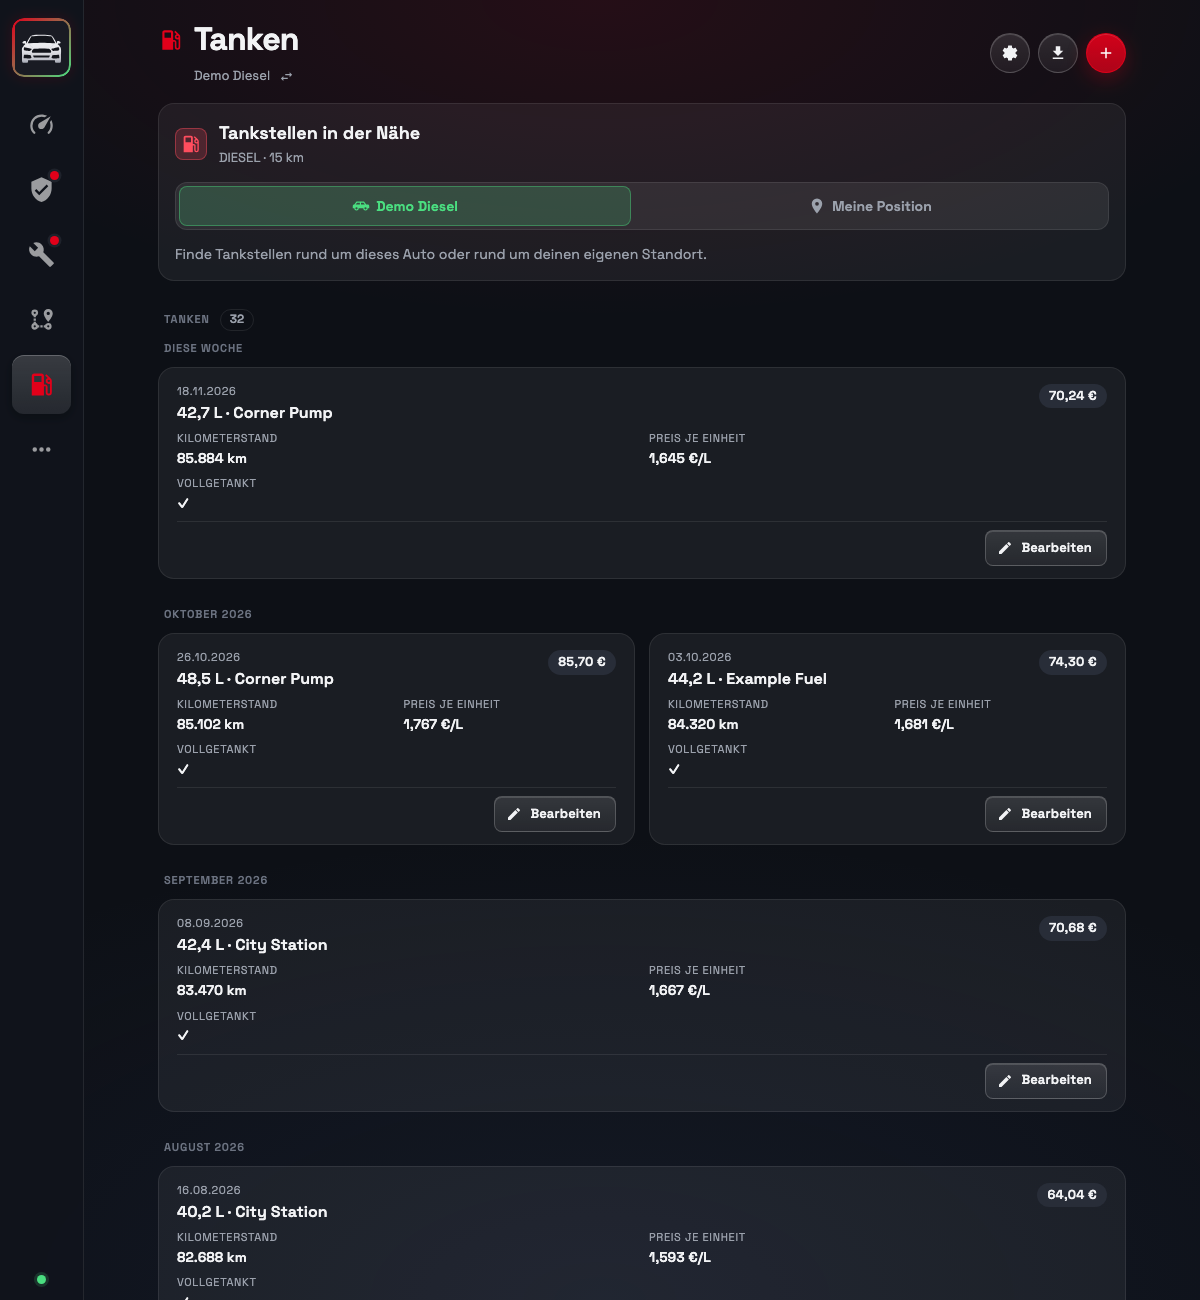
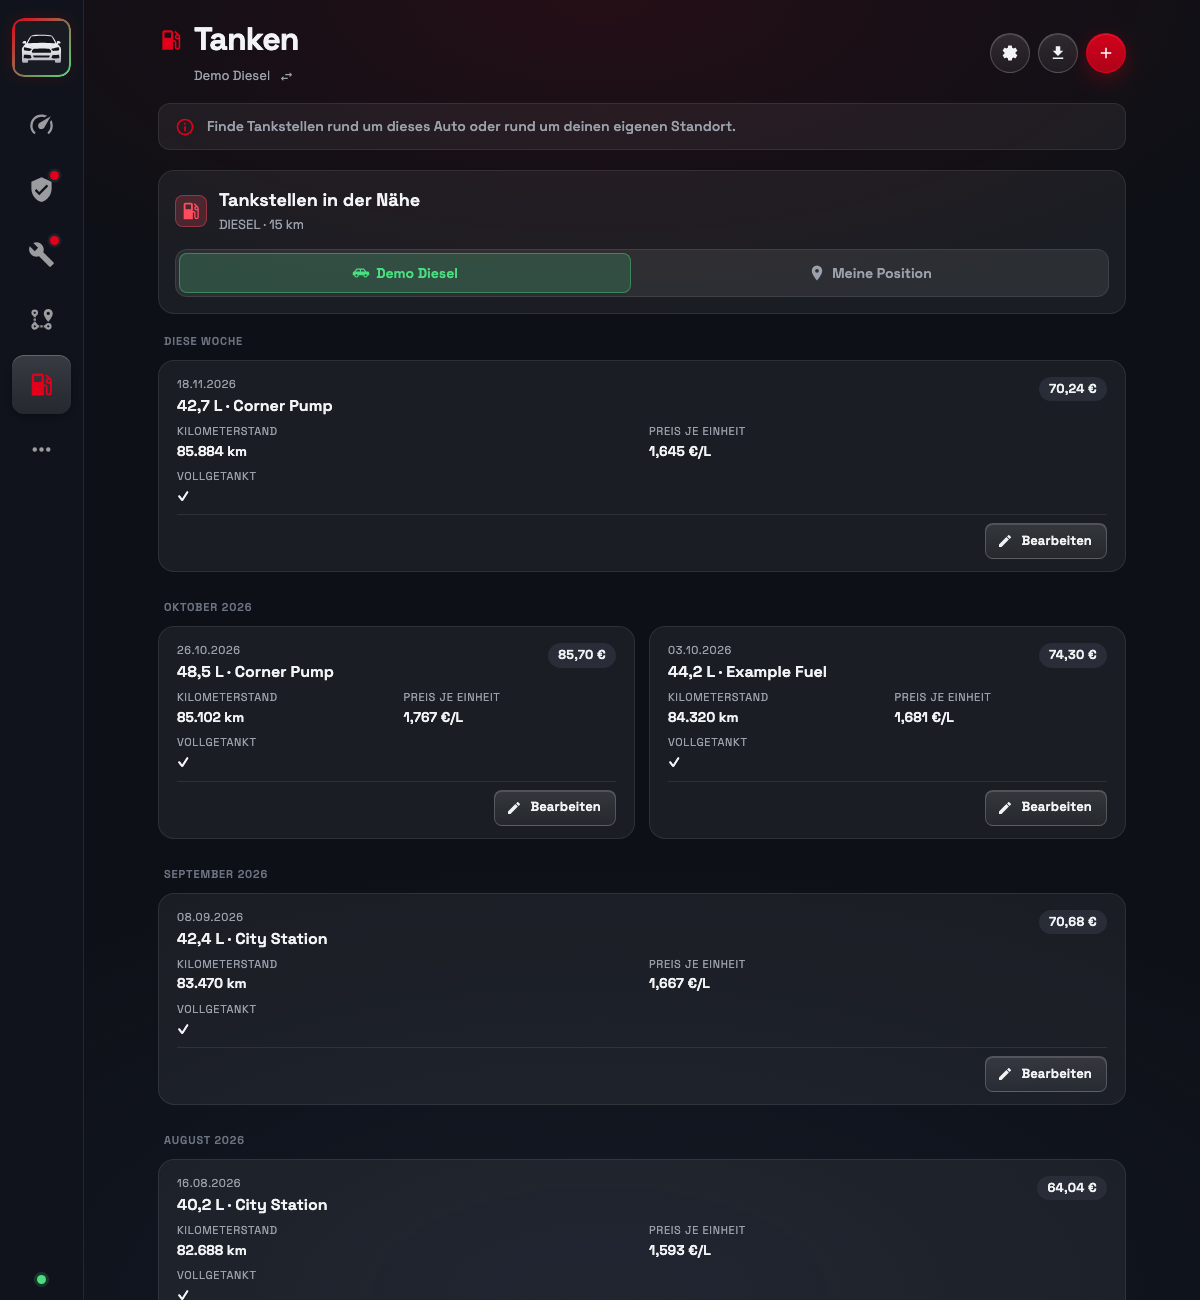
Station search: new row layout, price/distance switch, ten plus more, opening state; info tile for the intro

diff --git a/carassistant/app/carassistant/templates/_stations_card.html b/carassistant/app/carassistant/templates/_stations_card.html
@@ -5,34 +5,43 @@
     <span class="mi-ic c6">{{ icon('gas-station', 20) }}</span>
     <div class="stn-ht"><h2>{{ _('stn.title') }}</h2><small>{{ s.fuel|upper }} · 15 {{ units.dist_unit }}</small></div>
   </div>
+  {% set keep = ('&lat=' ~ request.query_params.get('lat', '') ~ '&lon=' ~ request.query_params.get('lon', '')) if s.where == 'me' else '' %}
   <form method="get" action="{{ vurl }}" id="stform" data-no-car="{{ _('stations.no_car_pos') }}" data-denied="{{ _('stations.geo_denied') }}">
     <input type="hidden" name="go" value="1">
+    <input type="hidden" name="sort" value="{{ s.sort }}">
     <input type="hidden" name="lat" id="st-lat" value="{{ request.query_params.get('lat', '') }}">
     <input type="hidden" name="lon" id="st-lon" value="{{ request.query_params.get('lon', '') }}">
     <nav class="seg-tabs" aria-label="{{ _('stn.where') }}">
-      <a href="{{ vurl }}?go=1#stations" id="st-car" class="{{ 'on' if s.where == 'car' }}{{ '' if s.car_pos else ' off' }}">{{ icon('car', 18) }}<span>{{ v.name }}</span></a>
+      <a href="{{ vurl }}?go=1&amp;sort={{ s.sort }}#stations" id="st-car" class="{{ 'on' if s.where == 'car' }}{{ '' if s.car_pos else ' off' }}">{{ icon('car', 18) }}<span>{{ v.name }}</span></a>
       <a href="#stations" id="st-me" class="{{ 'on' if s.where == 'me' }}">{{ icon('pin', 18) }}<span>{{ _('stn.me') }}</span></a>
     </nav>
   </form>
+  {% if s.searched %}<nav class="seg-tabs" aria-label="{{ _('stations.sort') }}">
+    <a href="{{ vurl }}?go=1&amp;sort=price{{ keep|e }}#stations" class="{{ 'on' if s.sort == 'price' }}">{{ icon('gas-station', 18) }}<span>{{ _('stations.sort_price') }}</span></a>
+    <a href="{{ vurl }}?go=1&amp;sort=distance{{ keep|e }}#stations" class="{{ 'on' if s.sort == 'distance' }}">{{ icon('map-marker-radius', 18) }}<span>{{ _('stations.sort_distance') }}</span></a>
+  </nav>{% endif %}
   {% if not s.car_pos %}<p class="hint">{{ _('stations.no_car_pos') }}</p>{% endif %}
   <div class="flash err" id="st-msg" hidden></div>
   {% if s.error %}<div class="flash err">{{ _(s.error) }}</div>{% endif %}
   {% if s.searched and not s.error %}
     {% if s.results %}
-    {% set prices = s.results|selectattr('price')|map(attribute='price')|list %}
-    <div class="stn-list">
-      {% for r in s.results %}
-      <a class="stn{{ ' best' if s.info.prices and r.price and prices and r.price == prices|min }}" href="https://www.openstreetmap.org/?mlat={{ r.lat }}&amp;mlon={{ r.lon }}#map=17/{{ r.lat }}/{{ r.lon }}" target="_blank" rel="noopener noreferrer">
-        <span class="stn-t"><b>{{ r.name }}</b></span>
+    {% set prices = s.results|rejectattr('is_open', 'equalto', false)|selectattr('price')|map(attribute='price')|list %}
+    {% macro row(r) %}
+      {% set ps = fnum(r.price, 3) if r.price else '' %}
+      {% set cheapest = s.info.prices and r.price and prices and r.price == prices|min and r.is_open != false %}
+      <a class="stn{{ ' best' if cheapest }}{{ ' closed' if r.is_open == false }}" href="https://www.openstreetmap.org/?mlat={{ r.lat }}&amp;mlon={{ r.lon }}#map=17/{{ r.lat }}/{{ r.lon }}" target="_blank" rel="noopener noreferrer">
+        {% if s.info.prices %}<span class="stn-p">{% if ps %}<b>{{ ps[:-1] }}<sup>{{ ps[-1] }}</sup></b>{% else %}<b>–</b>{% endif %}<small>{{ units.cur }}</small></span>{% endif %}
+        <span class="stn-t"><b>{{ r.name }}</b>{% if r.address %}<small>{{ r.address }}</small>{% endif %}{% if s.info.prices and r.is_open is not none %}<span class="stn-open {{ 'ok' if r.is_open else 'bad' }}"><u></u>{{ _('stations.open') if r.is_open else _('stations.closed') }}</span>{% endif %}</span>
         <span class="stn-d">{{ fnum(units.d(r.distance_km), 1) }} {{ units.dist_unit }}</span>
-        {% if s.info.prices %}<span class="stn-p"><b>{{ fnum(r.price, 3) if r.price else '–' }}</b><small>{{ units.cur }}</small></span>{% endif %}
       </a>
-      {% endfor %}
+    {% endmacro %}
+    <div class="stn-list">
+      {% for r in s.results[:10] %}{{ row(r) }}{% endfor %}
+      {% if s.results|length > 10 %}<details class="stn-more"><summary class="button">{{ icon('chevron-down', 18) }}<span>{{ _('stn.more', n=s.results|length - 10) }}</span></summary>
+        <div class="stn-list">{% for r in s.results[10:] %}{{ row(r) }}{% endfor %}</div></details>{% endif %}
     </div>
     {% else %}<p class="muted">{{ _('stations.none') }}</p>{% endif %}
     <p class="hint">{{ _('stations.attr_tk') if s.source == 'tankerkoenig' else (s.info.attribution or _('stations.attr_osm')) }}</p>
-  {% elif not s.searched %}
-    <p class="hint">{{ _('stations.intro') }}{% if not s.has_key %} {{ _('stations.no_key_hint') }}{% endif %}</p>
   {% endif %}
 </section>
 {% endwith %}

diff --git a/carassistant/app/carassistant/static/pc-core.css b/carassistant/app/carassistant/static/pc-core.css
@@ -1193,18 +1193,21 @@ input[type=date], input[type=time] { height: 48px; }
 .stn-head { display: flex; align-items: center; gap: 12px; }
 .stn-ht h2 { margin: 0; font-size: 18px; }
 .stn-ht small { color: var(--muted); font-size: 13px; }
-.stn-list { display: grid; gap: 10px; margin: 0; }
-.stn { display: flex; align-items: center; gap: 14px; padding: 12px 14px; border-radius: var(--r-m); border: 1px solid var(--glass-b); background: rgba(var(--fg-rgb), .04); color: var(--text); text-decoration: none; transition: background .18s, transform .12s; }
+.stn-list { display: grid; grid-template-columns: minmax(0, 1fr); gap: 10px; margin: 0; }  /* minmax: a long name wraps instead of widening the card */
+.stn { display: grid; grid-template-columns: 92px minmax(0, 1fr) auto; align-items: center; gap: 14px; padding: 12px 14px; border-radius: var(--r-m); border: 1px solid var(--glass-b); background: rgba(var(--fg-rgb), .04); color: var(--text); text-decoration: none; transition: background .18s, transform .12s; }
 .stn:hover { text-decoration: none; background: rgba(var(--fg-rgb), .08); }
 .stn:active { transform: scale(.992); }
 .stn.best { border-color: rgba(var(--ok-rgb), .5); background: linear-gradient(var(--ok-bg), var(--ok-bg)), var(--glass); }
-.stn-t { flex: 1; min-width: 0; }
-.stn-t b { display: block; font-size: 15px; overflow: hidden; text-overflow: ellipsis; white-space: nowrap; }
-.stn-d { flex: 0 0 auto; color: var(--muted); font-size: 13px; white-space: nowrap; }
-.stn-p { flex: 0 0 auto; display: flex; align-items: baseline; gap: 4px; min-width: 86px; justify-content: flex-end; }
-.stn-p b { font-family: "Space Mono", ui-monospace, monospace; font-size: 18px; }
+.stn-p { display: grid; justify-items: start; gap: 0; }
+.stn-p b { font-family: "Space Mono", ui-monospace, monospace; font-size: 24px; line-height: 1.1; letter-spacing: -.02em; }
+.stn-p b sup { font-size: 14px; margin-left: 1px; vertical-align: top; position: relative; top: -2px; }
 .stn.best .stn-p b { color: var(--ok); }
 .stn-p small { font-size: 12px; color: var(--muted); }
+.stn-t { min-width: 0; display: grid; gap: 2px; }
+.stn-t b { font-size: 15px; line-height: 1.3; overflow-wrap: anywhere; display: -webkit-box; -webkit-line-clamp: 2; -webkit-box-orient: vertical; overflow: hidden; }
+.stn-t small { font-size: 13px; color: var(--muted); overflow: hidden; text-overflow: ellipsis; white-space: nowrap; }
+.stn-d { color: var(--text); font-size: 15px; font-weight: 600; white-space: nowrap; text-align: right; }
+@media (max-width: 520px) { .stn { grid-template-columns: 78px minmax(0, 1fr); } .stn-d { grid-column: 2; text-align: left; color: var(--muted); font-size: 13px; font-weight: 500; } .stn-p b { font-size: 20px; } }
 .seg-tabs a.off { opacity: .5; pointer-events: none; }
 .vehicle-save { position: absolute; top: 10px; right: 56px; width: 38px; height: 38px; color: var(--bg); background: var(--ok); border: 1px solid var(--ok); box-shadow: 0 4px 14px rgba(var(--ok-rgb), .45); }
 .vehicle-save:hover { background: rgba(var(--ok-rgb), .82); }
@@ -2968,3 +2971,11 @@ form:has(> .sw-row:last-child) + .hint, form:has(> .sw-row:last-child) + p, form
 .seg-tabs a .ico { flex: 0 0 auto; }
 .stn-card .seg-tabs, .stn-card .hint, .stn-card .muted, .stn-card form { margin: 0; }  /* the card has its own even gap (14 px) between its parts */
 .stn-card .stn-list { margin: 0; }
+.stn.closed { opacity: .62; }
+.stn-open { display: inline-flex; align-items: center; gap: 5px; font-size: 12px; color: var(--muted); }
+.stn-open u { display: inline-block; width: 7px; height: 7px; border-radius: 50%; background: var(--dim); text-decoration: none; }
+.stn-open.ok { color: var(--ok); } .stn-open.ok u { background: var(--ok); }
+.stn-open.bad { color: var(--overdue); } .stn-open.bad u { background: var(--overdue); }
+.stn-more { margin-top: 10px; } .stn-more > summary { list-style: none; cursor: pointer; } .stn-more > summary::-webkit-details-marker { display: none; }
+.stn-more[open] > summary { display: none; }
+.stn-more .stn-list { margin-top: 0; }

diff --git a/carassistant/app/carassistant/templates/fuel_page.html b/carassistant/app/carassistant/templates/fuel_page.html
@@ -23,6 +23,7 @@
   <button type="button" class="icon-btn" data-toggle-panel="#fuel-export" aria-label="{{ _('fx.export') }}">{{ icon('download', 18) }}</button>
   <button type="button" class="button primary" data-toggle-panel="#fuel-add" aria-label="{{ _('btn.add') }}" title="{{ _('btn.add') }}">{{ icon('plus', 18) }}<span class="lbl">{{ _('btn.add') }}</span></button>
 {% endcall %}
+{% if stn %}<p class="hint">{{ _('stations.intro') }}{% if not stn.has_key %} {{ _('stations.no_key_hint') }}{% endif %}</p>{% endif %}
 {% if error %}<div class="flash err">{{ _(error[0]) }}{% if error|length > 1 %}: {{ _(error[1]) }}{% endif %}</div>{% endif %}
 
 {% for it in refuel_todo %}
@@ -66,7 +67,6 @@
 {% endif %}
 
 <section class="tp-sec" id="fuel">
-  <div class="vd-group-h eq-head">{{ _('fuel.title') }} <span class="eq-total" id="eq-count">{{ total_rows }}</span></div>
   <div class="eq-panel tp-add" id="fuel-add" {{ 'hidden' if not (form and not edit_id) }}>{{ fuelform(none, fu) }}</div>
   <div class="eq-panel tp-add" id="fuel-export" hidden>
     <form method="get" class="eq-edit tp-form fx-form">

diff --git a/tests/test_web.py b/tests/test_web.py
@@ -1294,3 +1294,22 @@ def test_one_tyre_set_per_season(client):
     with db.tx() as conn:
         assert conn.execute("SELECT COUNT(*) FROM tires WHERE vehicle_id = ? AND season = 'summer'", (vid,)).fetchone()[0] == 1
     assert "te-more" not in client.get(f"/v/{vid}/e/tires?edit=1&ps=summer").text  # no "add another set"
+
+
+def test_the_station_list_shows_ten_then_more_and_marks_the_closed(client, monkeypatch):
+    from carassistant import stations
+
+    vid = create_vehicle(client, "Pump Car")
+    from carassistant import db
+
+    with db.tx() as conn:
+        conn.execute("INSERT INTO live(vehicle_id, key, value, updated) VALUES(?, 'position', '52.5,13.4', datetime('now'))", (vid,))
+    found = [
+        stations.Station(f"Station {n}", "", "Main St. 1, 12345 Town", 52.5, 13.4, 1.0 + n, 1.800 + n / 1000, n != 0) for n in range(12)
+    ]
+    monkeypatch.setattr(stations, "nearby", lambda *a, **k: (found, "tankerkoenig"))
+    page = client.get(f"/v/{slug(vid)}/e/fuel?go=1&sort=price").text
+    assert page.count('<a class="stn') == 12 and 'class="stn-more"' in page and "2 more" in page  # ten, then the rest behind one click
+    assert "stn closed" in page and "sort=distance" in page  # the closed one is dimmed; the switch between price and distance
+    first_best = page.index("stn best")
+    assert "Station 1" in page[first_best : first_best + 600]  # the cheapest OPEN station is the green one, not the closed one

diff --git a/carassistant/app/carassistant/i18n.py b/carassistant/app/carassistant/i18n.py
@@ -1298,6 +1298,7 @@ EN: dict[str, str] = {
     "stn.me": "My position",
     "stn.at_me": "asks your device",
     "stn.cheapest": "Cheapest",
+    "stn.more": "{n} more",
     "stn.filter": "Fuel, radius, order, source",
     "stations.intro": "Find fuel stations around this car or around your own position.",
     "stations.no_key_hint": "Prices (Germany) need a free Tankerkönig API key in the app options; without it OpenStreetMap is used (no prices).",
@@ -3109,6 +3110,7 @@ DE: dict[str, str] = {
     "stn.me": "Meine Position",
     "stn.at_me": "fragt dein Gerät",
     "stn.cheapest": "Günstigste",
+    "stn.more": "{n} weitere",
     "stn.filter": "Kraftstoff, Umkreis, Reihenfolge, Quelle",
     "stations.intro": "Finde Tankstellen rund um dieses Auto oder rund um deinen eigenen Standort.",
     "stations.no_key_hint": "Preise (Deutschland) brauchen einen kostenlosen Tankerkönig-API-Key in den App-Optionen; ohne Key wird OpenStreetMap genutzt (ohne Preise).",

diff --git a/carassistant/app/carassistant/web.py b/carassistant/app/carassistant/web.py
@@ -2113,7 +2113,7 @@ def station_context(request: Request, vehicle: sqlite3.Row) -> dict:
     searched = bool(q.get("go"))
     electric = vehicle["fuel_type"] == "electric"
     fuel = "diesel" if vehicle["fuel_type"] == "diesel" else "e5"  # what the car needs: no question about it
-    sort = "price"
+    sort = q.get("sort") if q.get("sort") in ("price", "distance") else "price"  # the one choice left: price or distance first
     radius = 15.0  # kilometres, fixed
     radius_km = radius
     country = ha.country() if ha.available() else ""
